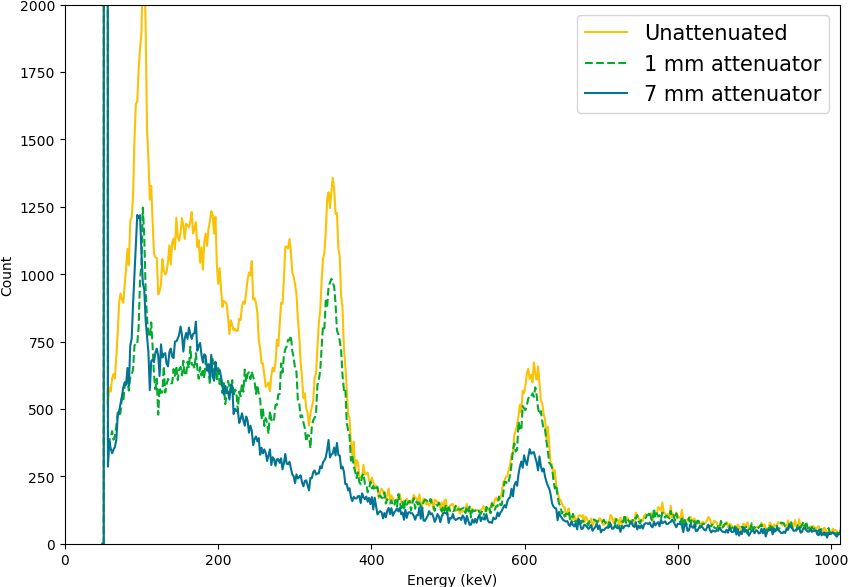
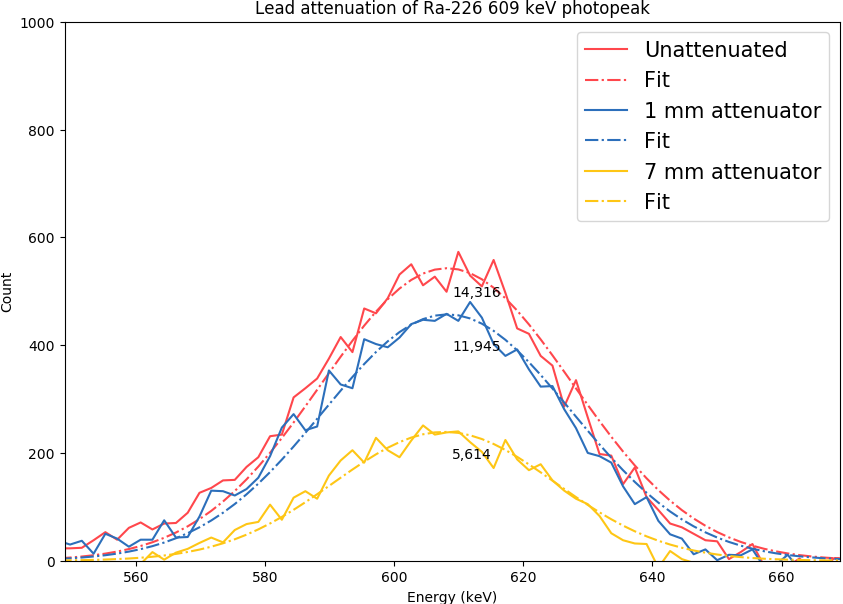
Added code and figure of lead attenuation of 609 keV photopeak

Changed region(s): [[0.0, 0.0, 1.0, 1.0], [0.6785, 0.276, 0.7402, 0.3373]]

diff --git a/absorption_of_radium.py b/absorption_of_radium.py
@@ -1,22 +1,65 @@
 import data_arrays_take_2
+import calibration_take_2
 import matplotlib.pyplot as plt
-#import matplotlib.cm as cm
 import numpy as np
+from scipy.optimize import curve_fit
 
 N = 1011
-x = np.arange(N)
+x0 = np.arange(N)
+x = np.linspace(47, 1887.02, 1011)  #Define Energy space that incorporates linear fit parameters
 
-#cm.register_cmap(name = "none", cmap = 'Dark2', lut=5)
 
+###Subtract global background plus costant from Ra-226 attenuated and unattenuated spectra
+Radium_1mm_lead = data_arrays_take_2.sp3-data_arrays_take_2.sp0 - 100
+Radium = data_arrays_take_2.sp2-data_arrays_take_2.sp0 - 100
+Radium_7mm_lead = data_arrays_take_2.sp3_1-data_arrays_take_2.sp0 - 100
+
+peak = slice(280, 333, 1)
+x1 = np.linspace(281, 333, 53)
+
+###Define an exponential to fit the background
+def exponential(x, A, b):
+    return A*np.exp(-x*b)
+
+###Define a gaussian curve
+def gaussian(x, sigma, X, A):
+    return A*np.exp( (-(x-X)**2)/(2*sigma**2))
+
+###Perform fit of 609 keV peak
+ra_params1, ra_param_covar1 = curve_fit(gaussian, x1, Radium[peak], p0 = [100, 310.,1.])
+ra_params2, ra_param_covar2 = curve_fit(gaussian, x1, Radium_1mm_lead[peak], p0 = [100, 310.,1.])
+ra_params3, ra_param_covar3 = curve_fit(gaussian, x1, Radium_7mm_lead[peak], p0 = [100, 310.,1.])
+
+print ra_params1
+print ra_params2
+print ra_params3
+
+###Solve for counts under the photopeak fits
+sum1=0
+sum2=0
+sum3=0
+for i in range(peak.start, peak.stop + 1):
+    sum1 += gaussian(x0[i], *ra_params1)   #Unattenuated
+    sum2 += gaussian(x0[i], *ra_params2)   #1mm
+    sum3 += gaussian(x0[i], *ra_params3)   #7mm
+
+print sum1, sum2, sum3
+
+#Plot 609keV photopeaks with fits and count no.
 plt.figure(figsize=(10,7))
-plt.plot(x, data_arrays_take_2.sp3, label="1 mm", color = '#fac205')
-plt.plot(x, data_arrays_take_2.sp3_1, label="7 mm", linestyle = '--', color = '#02ab2e')
-plt.plot(x, data_arrays_take_2.sp2, label="Unattenuated", color = '#047495')
-plt.xlim([0,1011])
-plt.ylim([0,4000])
-plt.xlabel("Channel No.")
+plt.plot(x, Radium, label="Unattenuated", color = '#ff474c')
+plt.plot(x, gaussian(x0, *ra_params1), color = '#ff474c', linestyle = '-.', label="Fit")
+plt.plot(x, Radium_1mm_lead, color = '#2c6fbb', label="1 mm attenuator" )
+plt.plot(x, gaussian(x0,  *ra_params2), color = '#2c6fbb', linestyle = '-.', label="Fit")
+plt.plot(x, Radium_7mm_lead, color = '#fec615', label="7 mm attenuator")
+plt.plot(x, gaussian(x0,  *ra_params3), color = '#fec615', linestyle = '-.', label="Fit")
+plt.annotate('14,316', xy=(609, 490), xytext=(609, 490))
+plt.annotate('11,945', xy=(609, 390), xytext=(609, 390))
+plt.annotate('5,614', xy=(609, 190), xytext=(609, 190))
+plt.xlim([549,669])
+plt.ylim([0,1000])
+plt.xlabel("Energy (keV)")
 plt.ylabel("Count")
-#plt.title("Visual comparison of Radium 226 and 'Ore B'")
 plt.legend(loc=1, prop={'size': 15})
 plt.savefig("Lead_attenuated_radium.png", bbox_inches="tight", pad_inches=0)
 plt.show()
